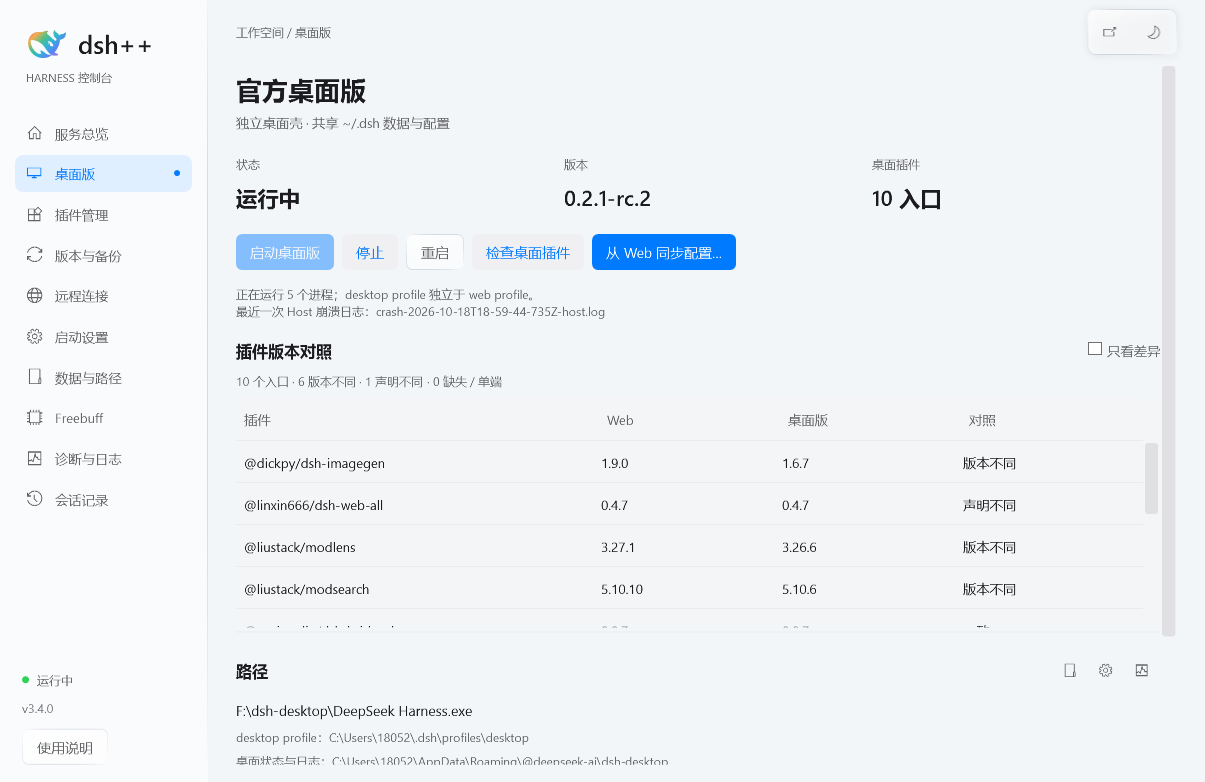
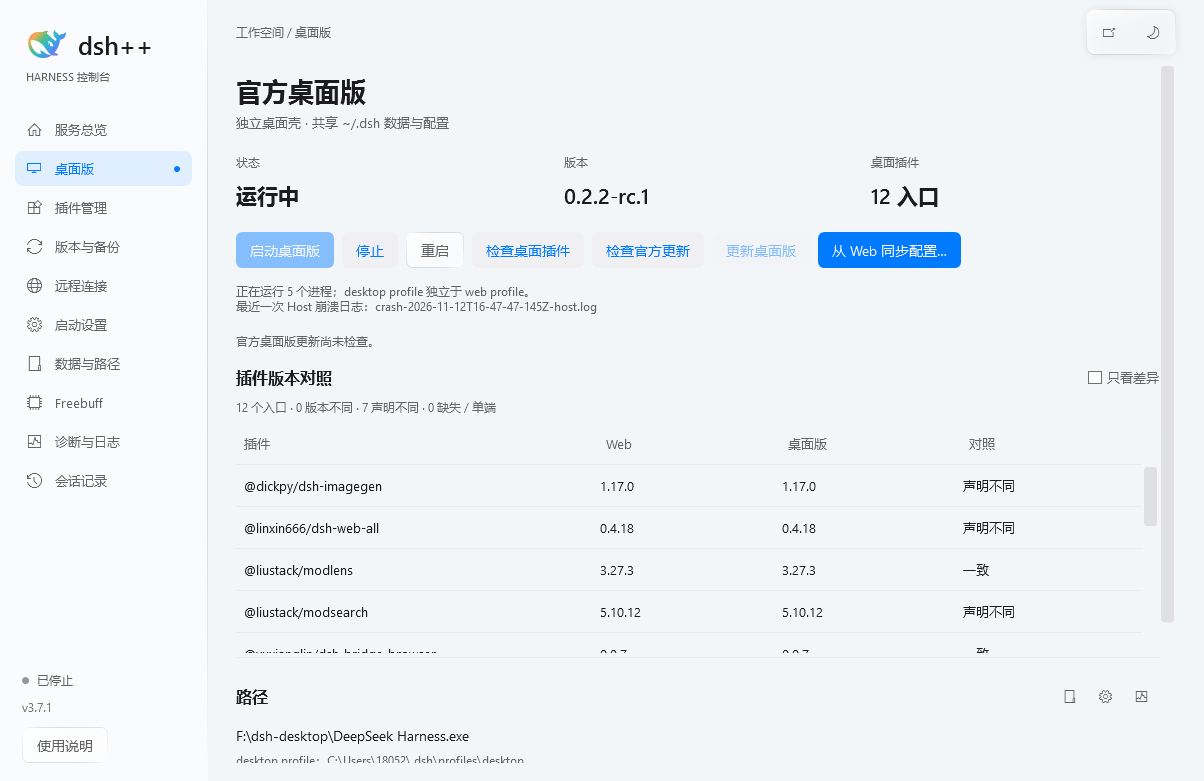
Refresh screenshots for 3.7.1 and restyle the README header

diff --git a/README.md b/README.md
@@ -1,10 +1,29 @@
+<div align="center">
+
 # dsh++
 
-DeepSeek Harness 的 Windows 桌面控制台。3.7 在插件更新前核对 DSH 内核要求、支持 next（RC）内核通道，并检查 / 修复 overlay patch 配置；3.6 让「升级到最新」可选固定或浮动声明并讲清版本被声明挡住的原因；3.5 增加插件“升级到最新”通道与官方桌面版更新管理，继续保留会话记录、玻璃材质、健康检查和 Web / 桌面插件对照。
+**DeepSeek Harness 的 Windows 桌面控制台**
+
+服务生命周期 · 插件维护 · 官方桌面版管理 · 健康诊断
+
+[![Release](https://img.shields.io/badge/release-v3.7.1-D97757?style=flat-square&labelColor=3D3929)](https://github.com/Jensen-Yao/dsh-plus-plus/releases)
+[![.NET](https://img.shields.io/badge/.NET-8.0_WPF-788C5D?style=flat-square&labelColor=3D3929)](https://dotnet.microsoft.com/download/dotnet/8.0)
+[![Platform](https://img.shields.io/badge/platform-Windows%2010%2F11-8F8B7E?style=flat-square&labelColor=3D3929)]()
+[![DSH](https://img.shields.io/badge/DSH-0.2.2--rc.2%20verified-D5A144?style=flat-square&labelColor=3D3929)]()
+[![License](https://img.shields.io/badge/license-MIT-6E6A5E?style=flat-square&labelColor=3D3929)](LICENSE)
+
+[下载最新版](https://github.com/Jensen-Yao/dsh-plus-plus/releases/latest) · [快速开始](#使用) · [常见问题](#诊断)
+
+</div>
+
+---
 
 ![dsh++ 插件管理](docs/screenshots/plugins-light.png)
 ![dsh++ 桌面版管理](docs/screenshots/desktop-light.png)
 ![dsh++ 会话记录（演示数据）](docs/screenshots/sessions-dark.png)
+![dsh++ 服务总览（深色）](docs/screenshots/main-dark.png)
+
+> 3.7 在插件更新前核对 DSH 内核要求、支持 next（RC）内核通道，并检查 / 修复 overlay patch 配置；3.6 让「升级到最新」可选固定或浮动声明并讲清版本被声明挡住的原因；3.5 增加插件“升级到最新”通道与官方桌面版更新管理。会话截图均为演示数据。
 
 ## 使用
 
